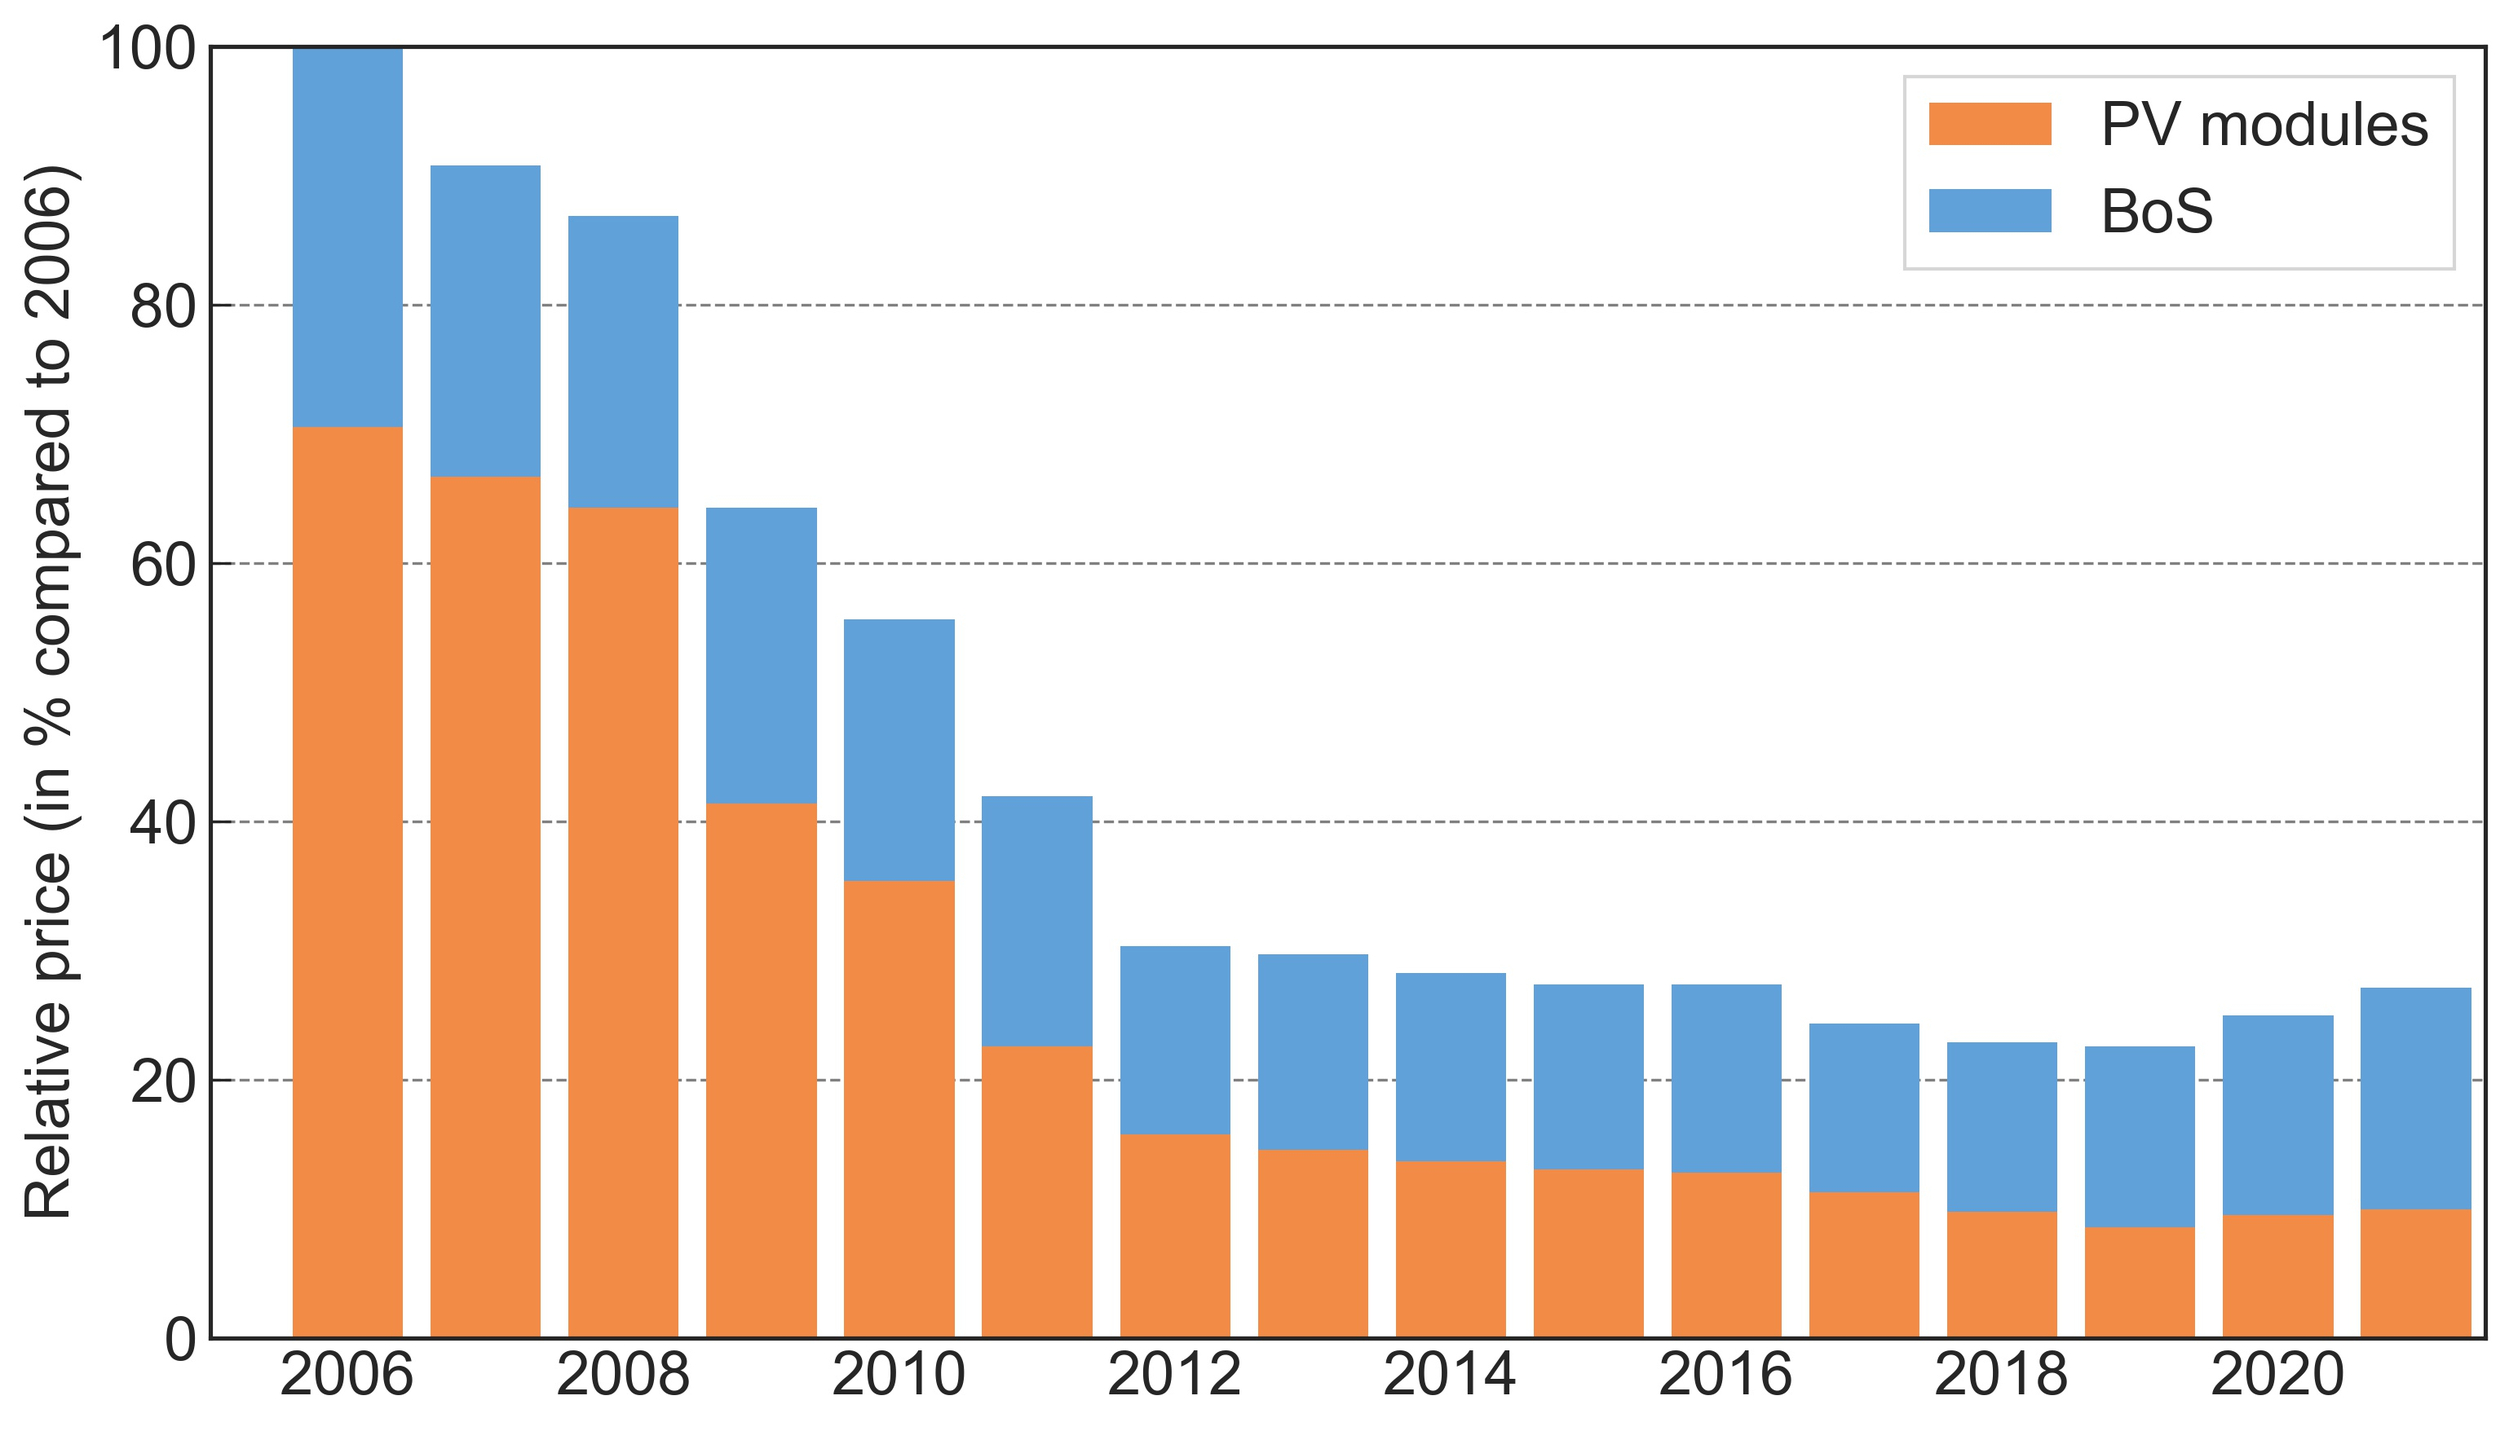
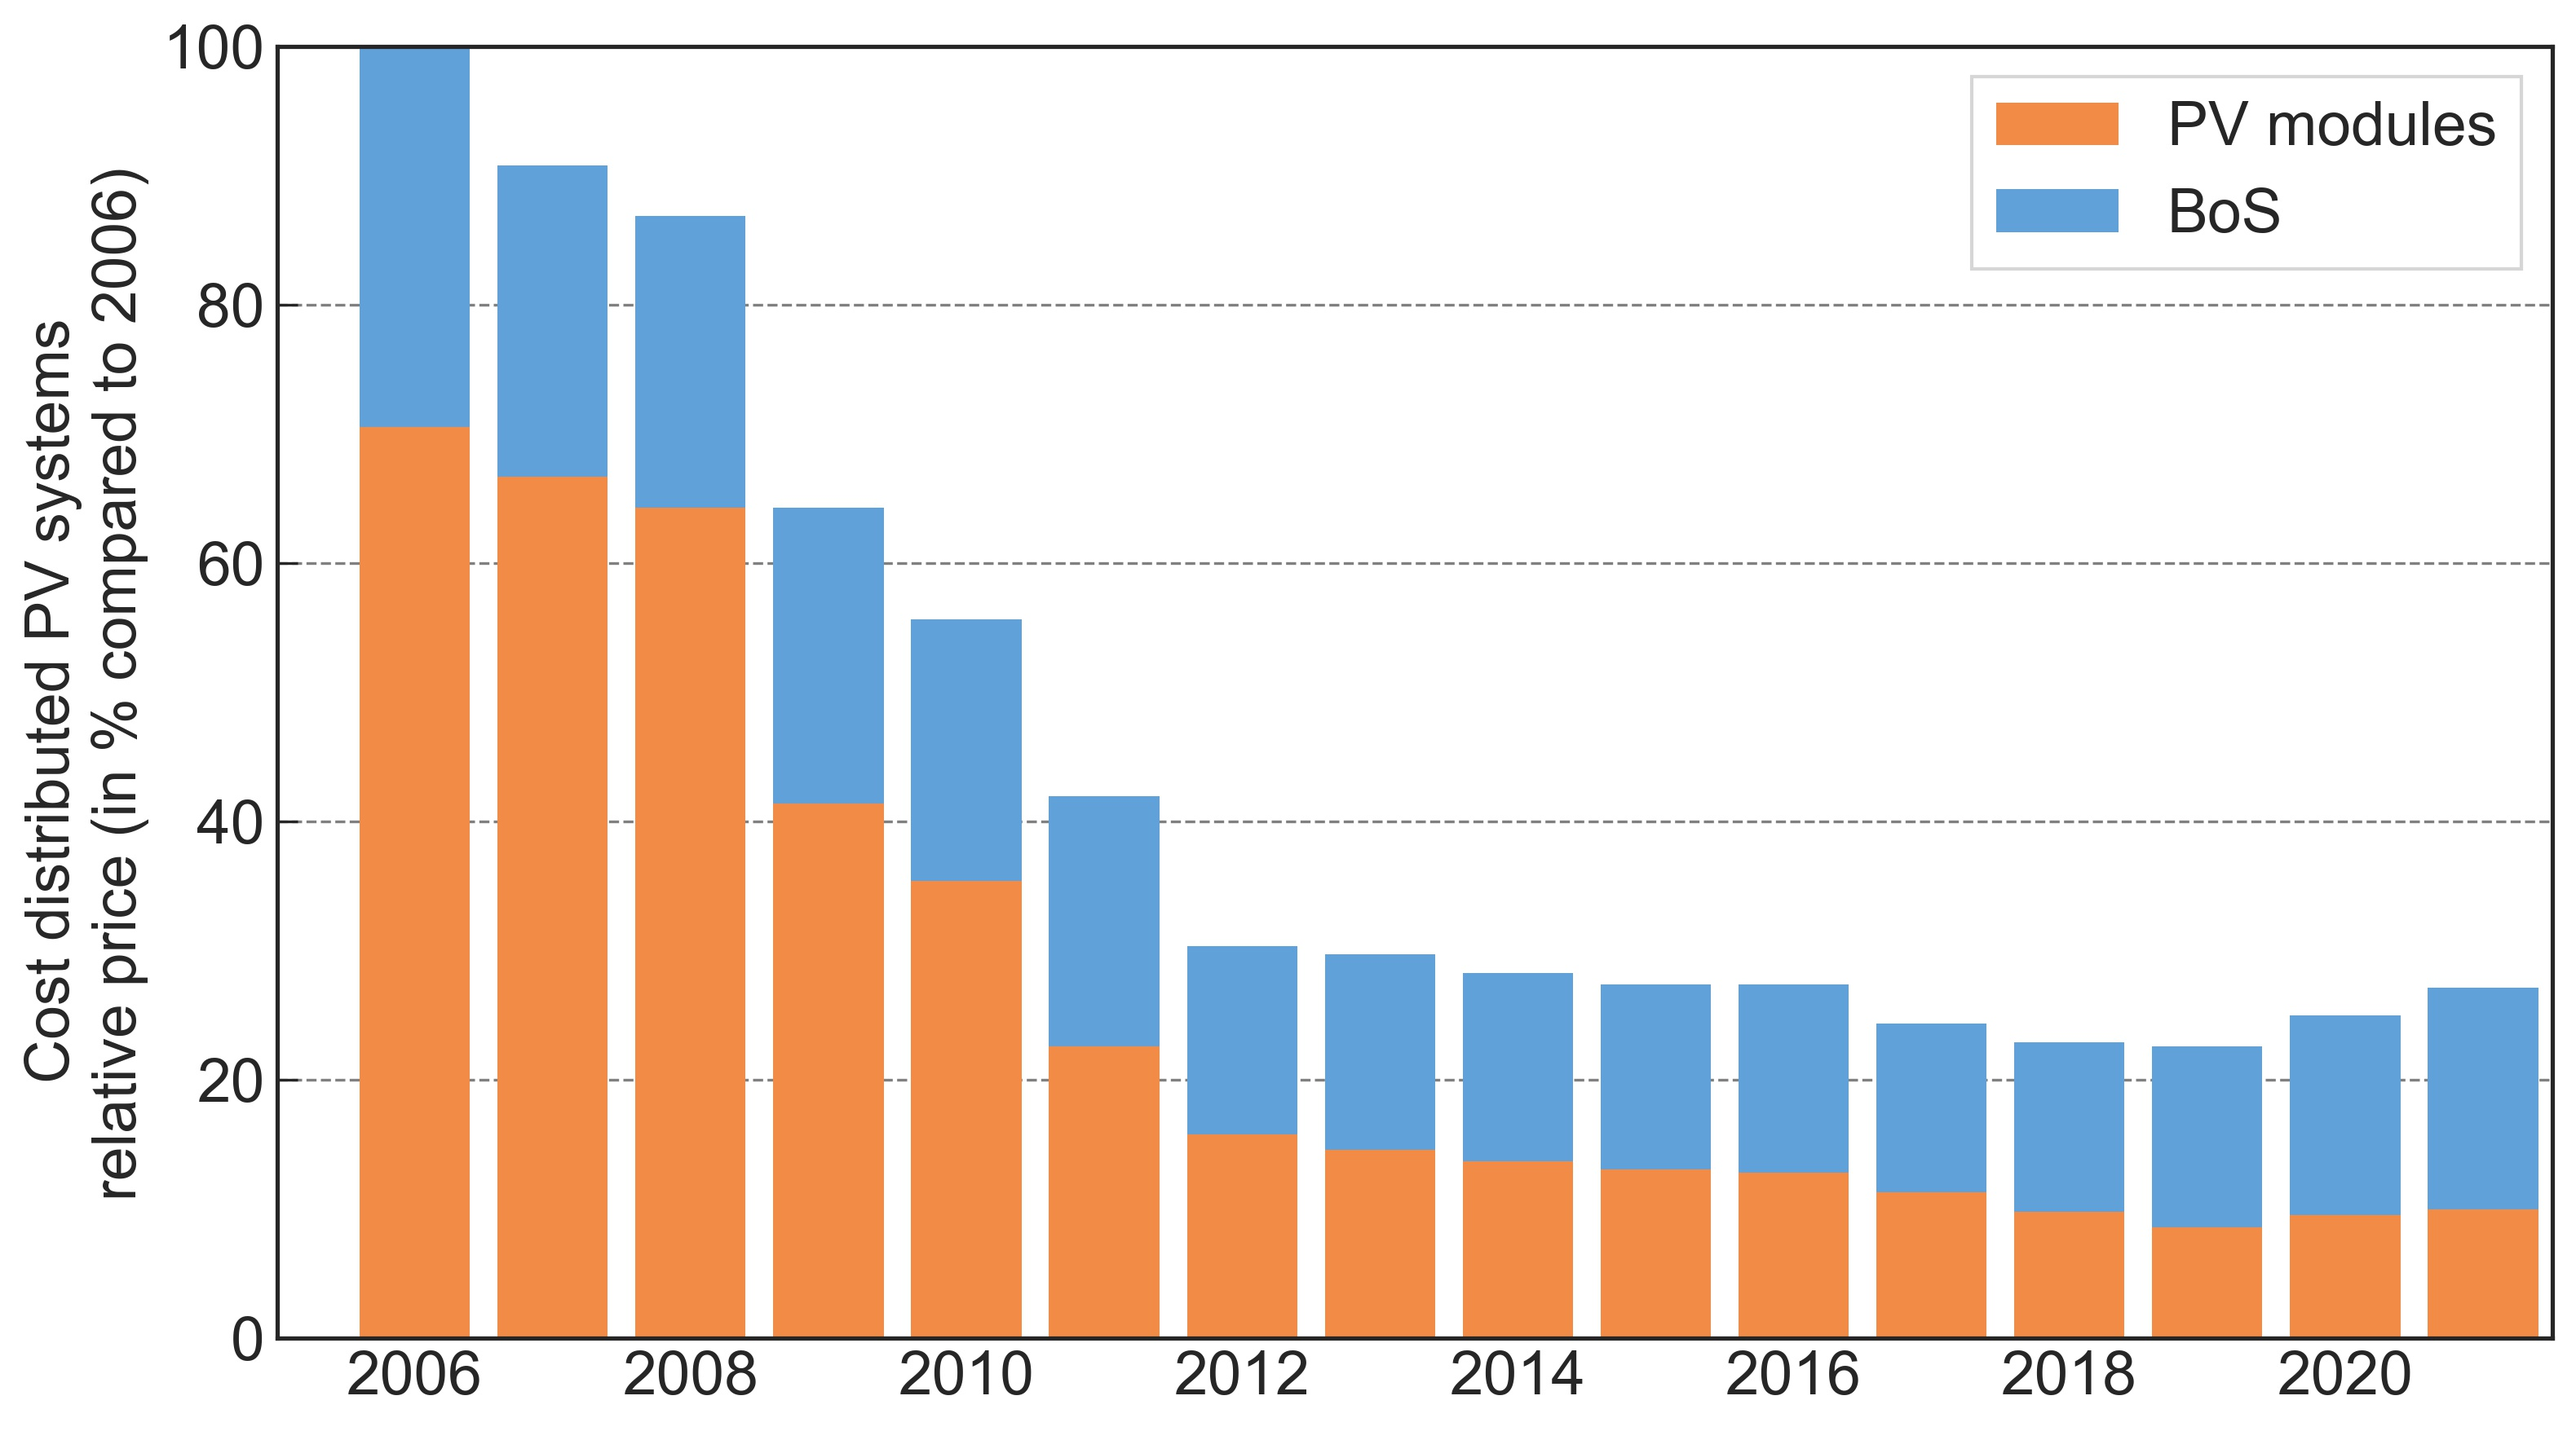
small improvements in figures chapter 13

diff --git a/Figures/Chapter_13/cost_PV_plants.py b/Figures/Chapter_13/cost_PV_plants.py
@@ -30,7 +30,7 @@ mean = [4.808, 4.104, 3.124, 2.742,2.478, 1.887, 1.717, 1.483, 1.267, 1.046, 0.9
 max_value = [6.000/0.9, 5.800/0.9, 4.950/0.9, 5.400, 5.300, 4.200, 3.300, 3.000, 2.750, 2.300, 2.300, 1.95]
 min_value= [3.400, 2.600, 2.100, 1.7000, 1.400, 1.200, 1.100, 0.800, 0.7500, 0.700, 0.600, 0.55]
 dif_value = [a-b for a,b in zip(max_value, min_value)]
-ax1.set_ylabel('(USD$_{2021}$/W$_p$)')
+ax1.set_ylabel('Cost utility-scale PV power plants (USD$_{2021}$/W$_p$)')
 ax1.plot(years, mean, color='black', linewidth=4,
          marker='o', markerfacecolor='white',markersize=12)
 

diff --git a/Figures/Chapter_13/cost_rooftop.py b/Figures/Chapter_13/cost_rooftop.py
@@ -31,7 +31,7 @@ ax1.legend(fancybox=False, fontsize=18, loc='best', #(1.03,-0.04),
            facecolor='white', ncol=1, frameon=True)
 ax1.set_ylim(0,100)
 ax1.set_xlim(2005,2021.5)
-ax1.set_ylabel('Relative price (in % compared to 2006)')
+ax1.set_ylabel('Cost distributed PV systems \n relative price (in % compared to 2006)')
 
 ax1.grid(color='grey', linestyle='--', axis='y', which='both')
 
